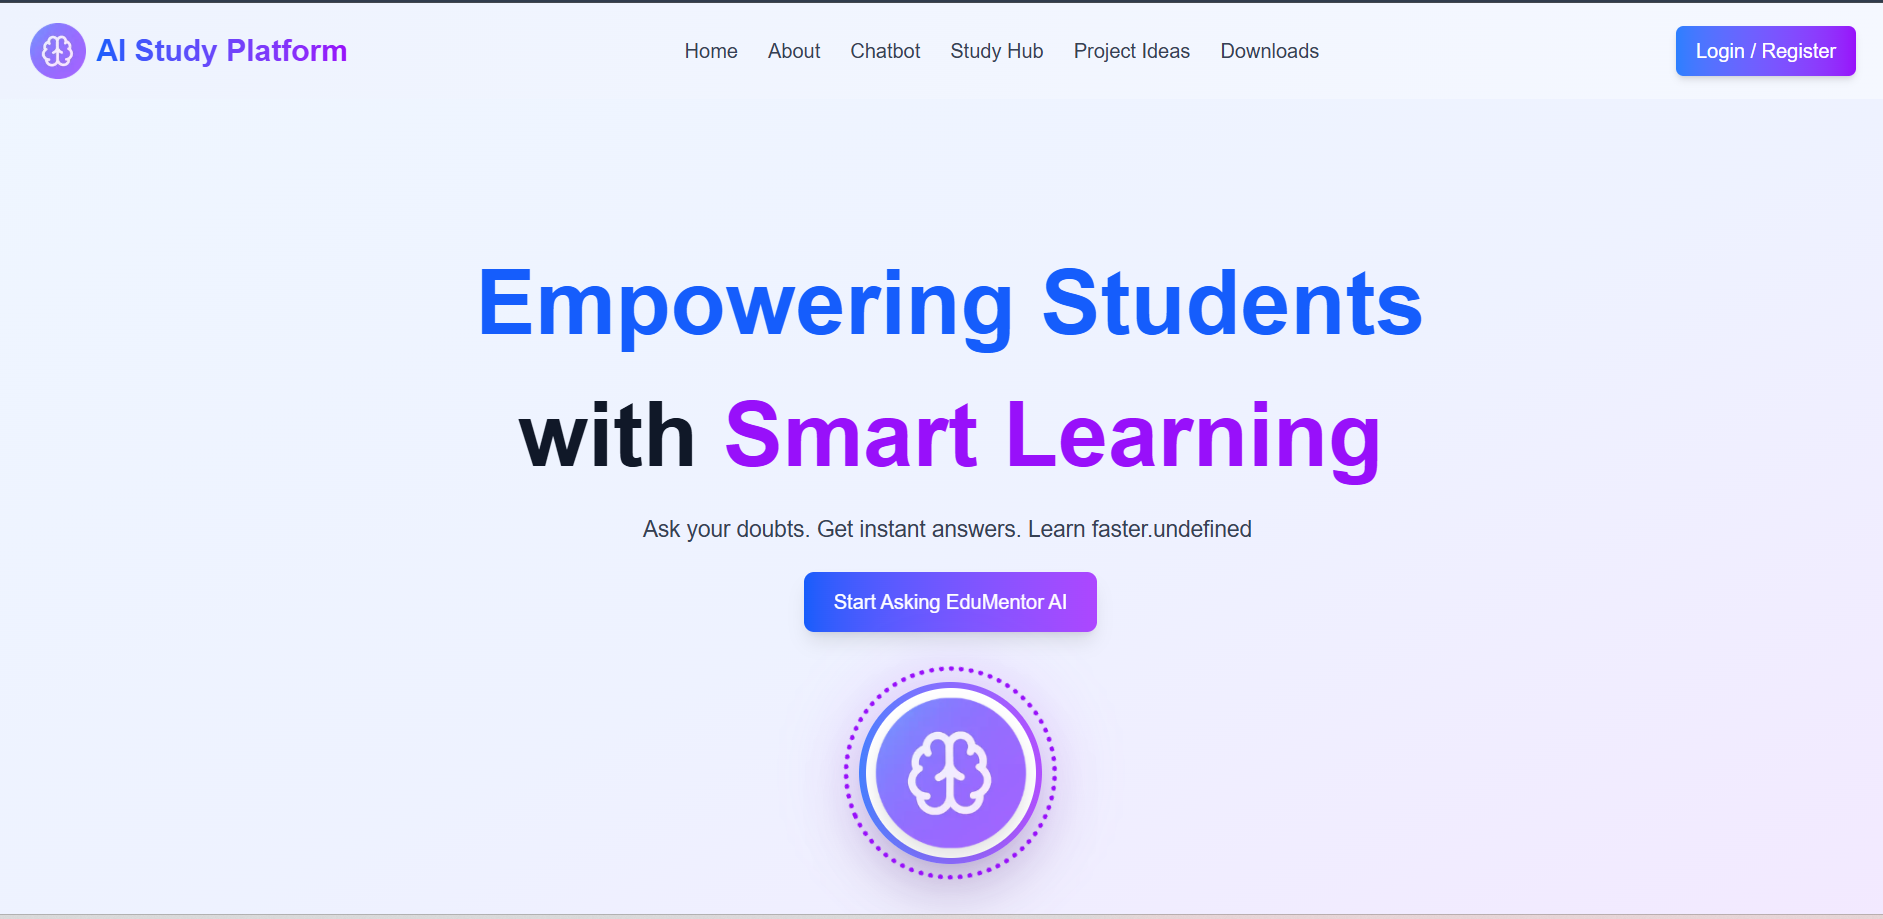
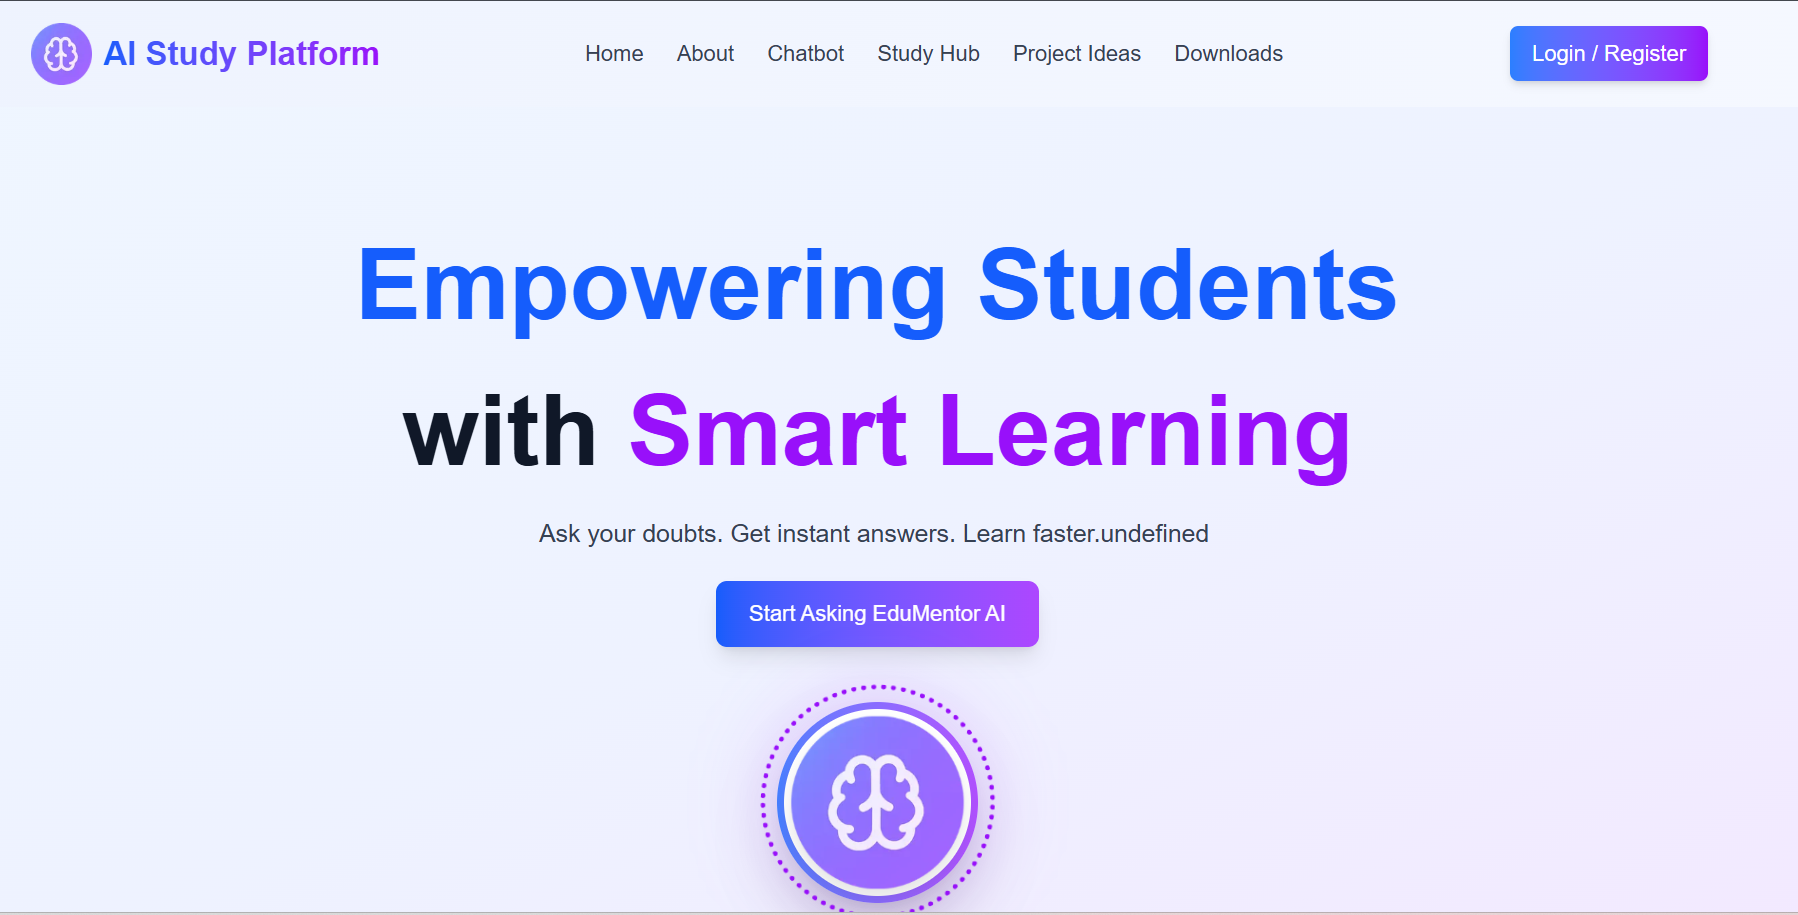
New Projects Added

diff --git a/src/Components/Projects.jsx b/src/Components/Projects.jsx
@@ -5,23 +5,43 @@ export default function Projects() {
   const projects = [
 
     {
-      title: "AI-powered Study Platform",
+      title: "EduMentor (AI-powered Study Platform)",
       desc: "Personalized learning Platform with EduMentor chatbot, quizzes, and more features.",
-      tech: "React • WebMatrix • AI",
+      tech: "MERN Stack  | React • MongoDB • Express • Node.js • AI",
       live: "https://ai-study-platform-ty.vercel.app/",
       github: "#",
       img: "/project4.png",
     },
     {
-      title: "E-commerce Platform",
+      title: "UrbanPick (E-commerce Platform)",
       desc: "UrbanPick with cart functionality and modern UI.",
-      tech: "React • TailwindCSS • Next.js",
+      tech: " MERN Stack React • TailwindCSS • Next.js",
       live: "https://urban-pick-webmatrix.vercel.app/",
       github: "#",
       img: "/project5.png",
     },
+
     {
-      title: "College Website",
+      title: "MedSphere (Clinic Management System) ",
+      desc: "A modern clinic management system with appointment scheduling, doctor profiles, and patient records.",
+      tech: " MERN Stack | React • TailwindCSS • Node.js • Firebase",
+      live: "https://med-sphere-clinic.vercel.app/",
+      github: "#",
+      img: "/project6.png",
+    },
+
+    {
+      title: "WebMatrix Codex",
+      desc: "Official startup website for Web Matrix Solutions, designed to present AI-powered development services, modern web solutions, and futuristic digital experiences.",
+      tech: "MERN Stack | Next.js • Tailwind CSS • TypeScript • Framer Motion",
+      live: "https://webmatrix-codex.vercel.app/",
+      github: "#",
+      img: "/project7.png",
+    },
+
+
+    {
+      title: "SPDC (College Website)",
       desc: "Animated and responsive website for college with multi-page support.",
       tech: "HTML • CSS • JavaScript",
       live: "https://spdccollege2.netlify.app/",
@@ -37,14 +57,13 @@ export default function Projects() {
       img: "/project2.png",
     },
     {
-      title: "Pygame Shooting Game",
+      title: "Space Shooter (Pygame Shooting Game)",
       desc: "A fun arcade-style shooting game built using Pygame library.",
       tech: "Python • Pygame",
       live: "https://drive.google.com/file/d/10CcdvmCYLmDkhUJjX3CpaHrdXMKFWMlb/view?usp=sharing",
       github: "#",
       img: "/project3.png",
     },
-    
   ];
 
   const containerVariants = {
@@ -66,9 +85,9 @@ export default function Projects() {
     <section id="Projects" className="bg-white text-gray-800 py-24 px-6 relative">
       {/* Decorative Blob */}
       <div className="absolute top-1/3 right-0 w-96 h-96 bg-purple-50 rounded-full mix-blend-multiply filter blur-3xl opacity-50 z-0"></div>
-      
+
       <div className="max-w-7xl xl:max-w-[1400px] mx-auto relative z-10">
-        <motion.h2 
+        <motion.h2
           initial={{ opacity: 0, y: -20 }}
           whileInView={{ opacity: 1, y: 0 }}
           viewport={{ once: true, amount: 0.2 }}
@@ -78,7 +97,7 @@ export default function Projects() {
           Featured Projects
         </motion.h2>
 
-        <motion.div 
+        <motion.div
           variants={containerVariants}
           initial="hidden"
           whileInView="visible"
@@ -86,19 +105,19 @@ export default function Projects() {
           className="grid grid-cols-1 sm:grid-cols-2 lg:grid-cols-3 gap-10"
         >
           {projects.map((project, index) => (
-            <motion.a 
+            <motion.a
               href={project.live}
               target="_blank"
               rel="noopener noreferrer"
               variants={itemVariants}
-              key={index} 
+              key={index}
               className="block bg-white border border-gray-100 shadow-lg rounded-2xl overflow-hidden transform transition duration-500 hover:-translate-y-2 hover:shadow-2xl group flex flex-col cursor-pointer"
             >
               <div className="relative overflow-hidden h-56">
-                <img 
-                  src={project.img} 
-                  alt={project.title} 
-                  className="w-full h-full object-cover transition-transform duration-700 group-hover:scale-110" 
+                <img
+                  src={project.img}
+                  alt={project.title}
+                  className="w-full h-full object-cover transition-transform duration-700 group-hover:scale-110"
                 />
                 <div className="absolute inset-0 bg-blue-900 opacity-0 group-hover:opacity-20 transition-opacity duration-300"></div>
               </div>
@@ -111,12 +130,12 @@ export default function Projects() {
                   <span className="text-blue-600 font-semibold text-sm bg-blue-50 px-3 py-1 rounded-full">{project.tech}</span>
                   <div className="flex gap-4">
                     {project.github !== "#" && (
-                      <div 
+                      <div
                         onClick={(e) => {
                           e.preventDefault();
                           window.open(project.github, "_blank");
-                        }} 
-                        className="text-gray-500 hover:text-gray-900 transition-colors z-20 relative cursor-pointer" 
+                        }}
+                        className="text-gray-500 hover:text-gray-900 transition-colors z-20 relative cursor-pointer"
                         title="GitHub"
                       >
                         <svg className="w-5 h-5" fill="currentColor" viewBox="0 0 24 24" aria-hidden="true">
